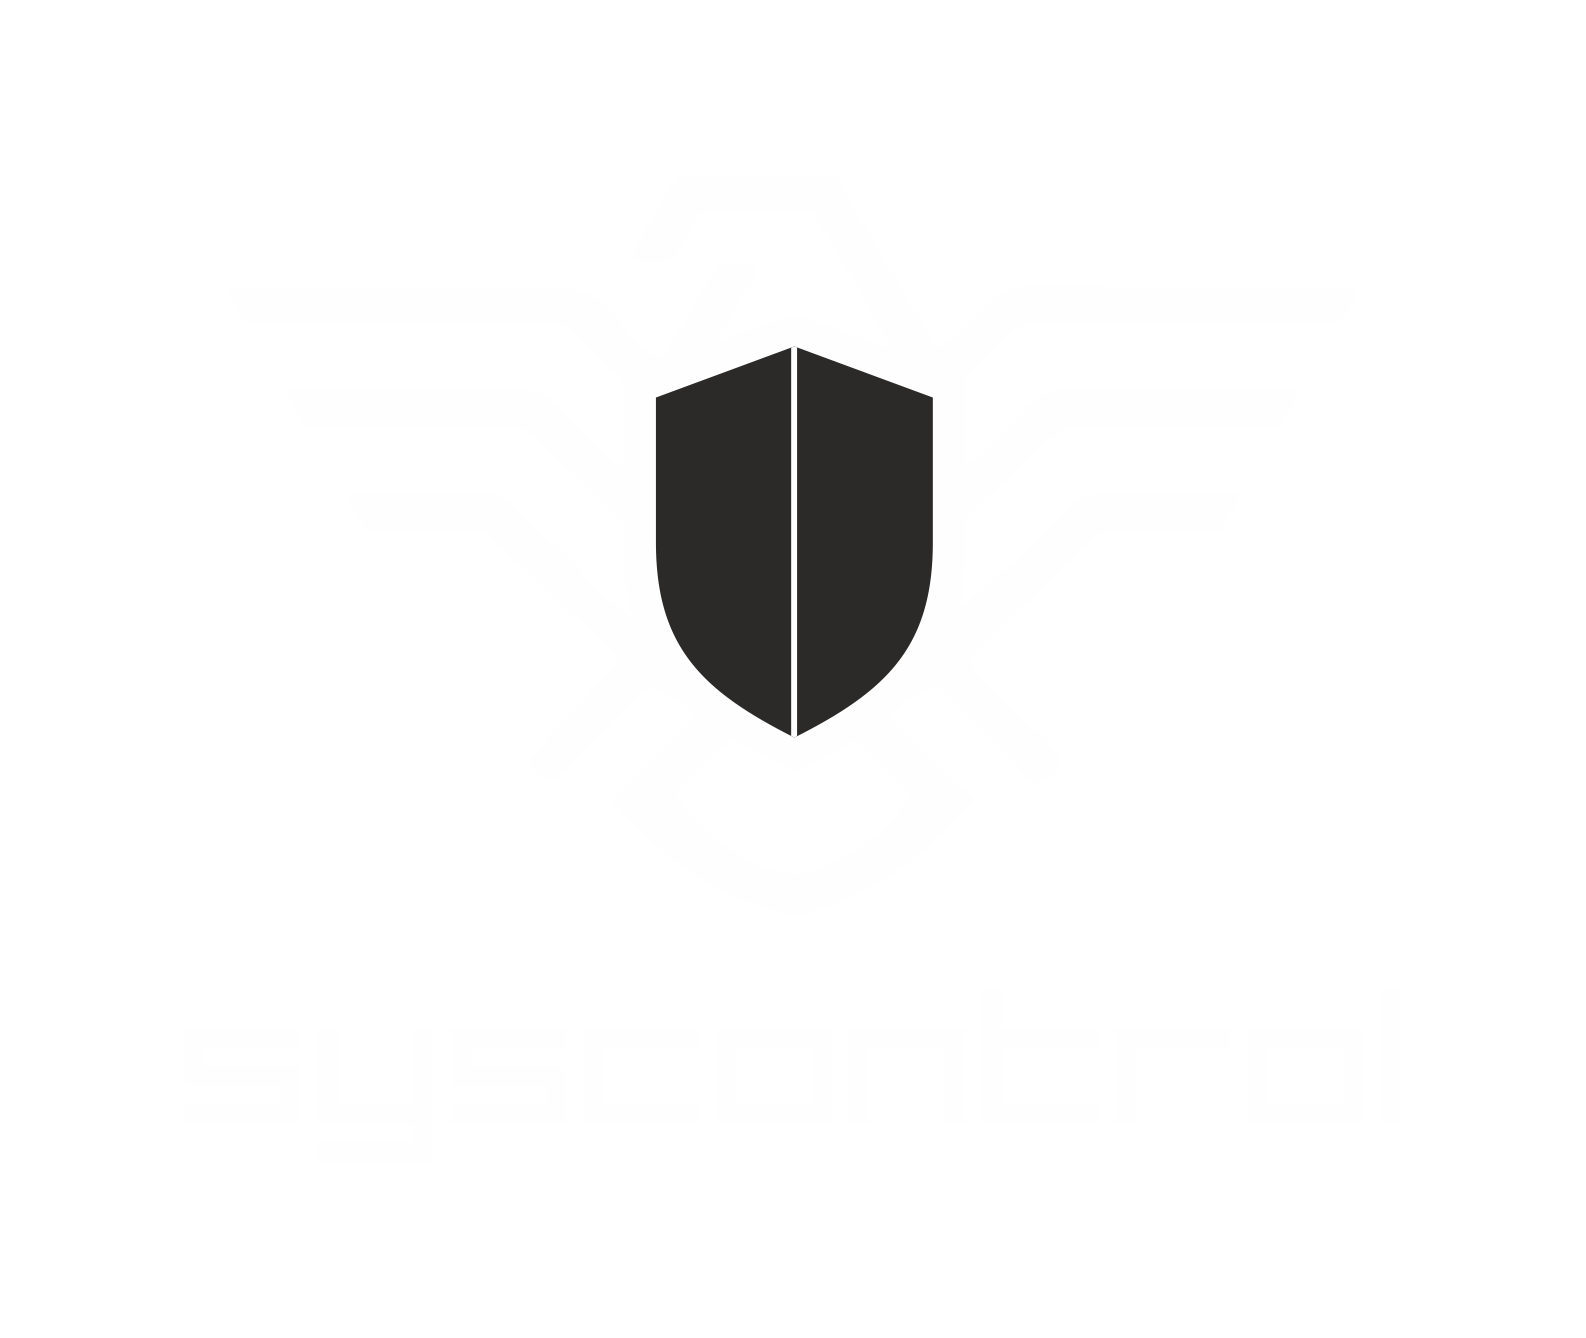
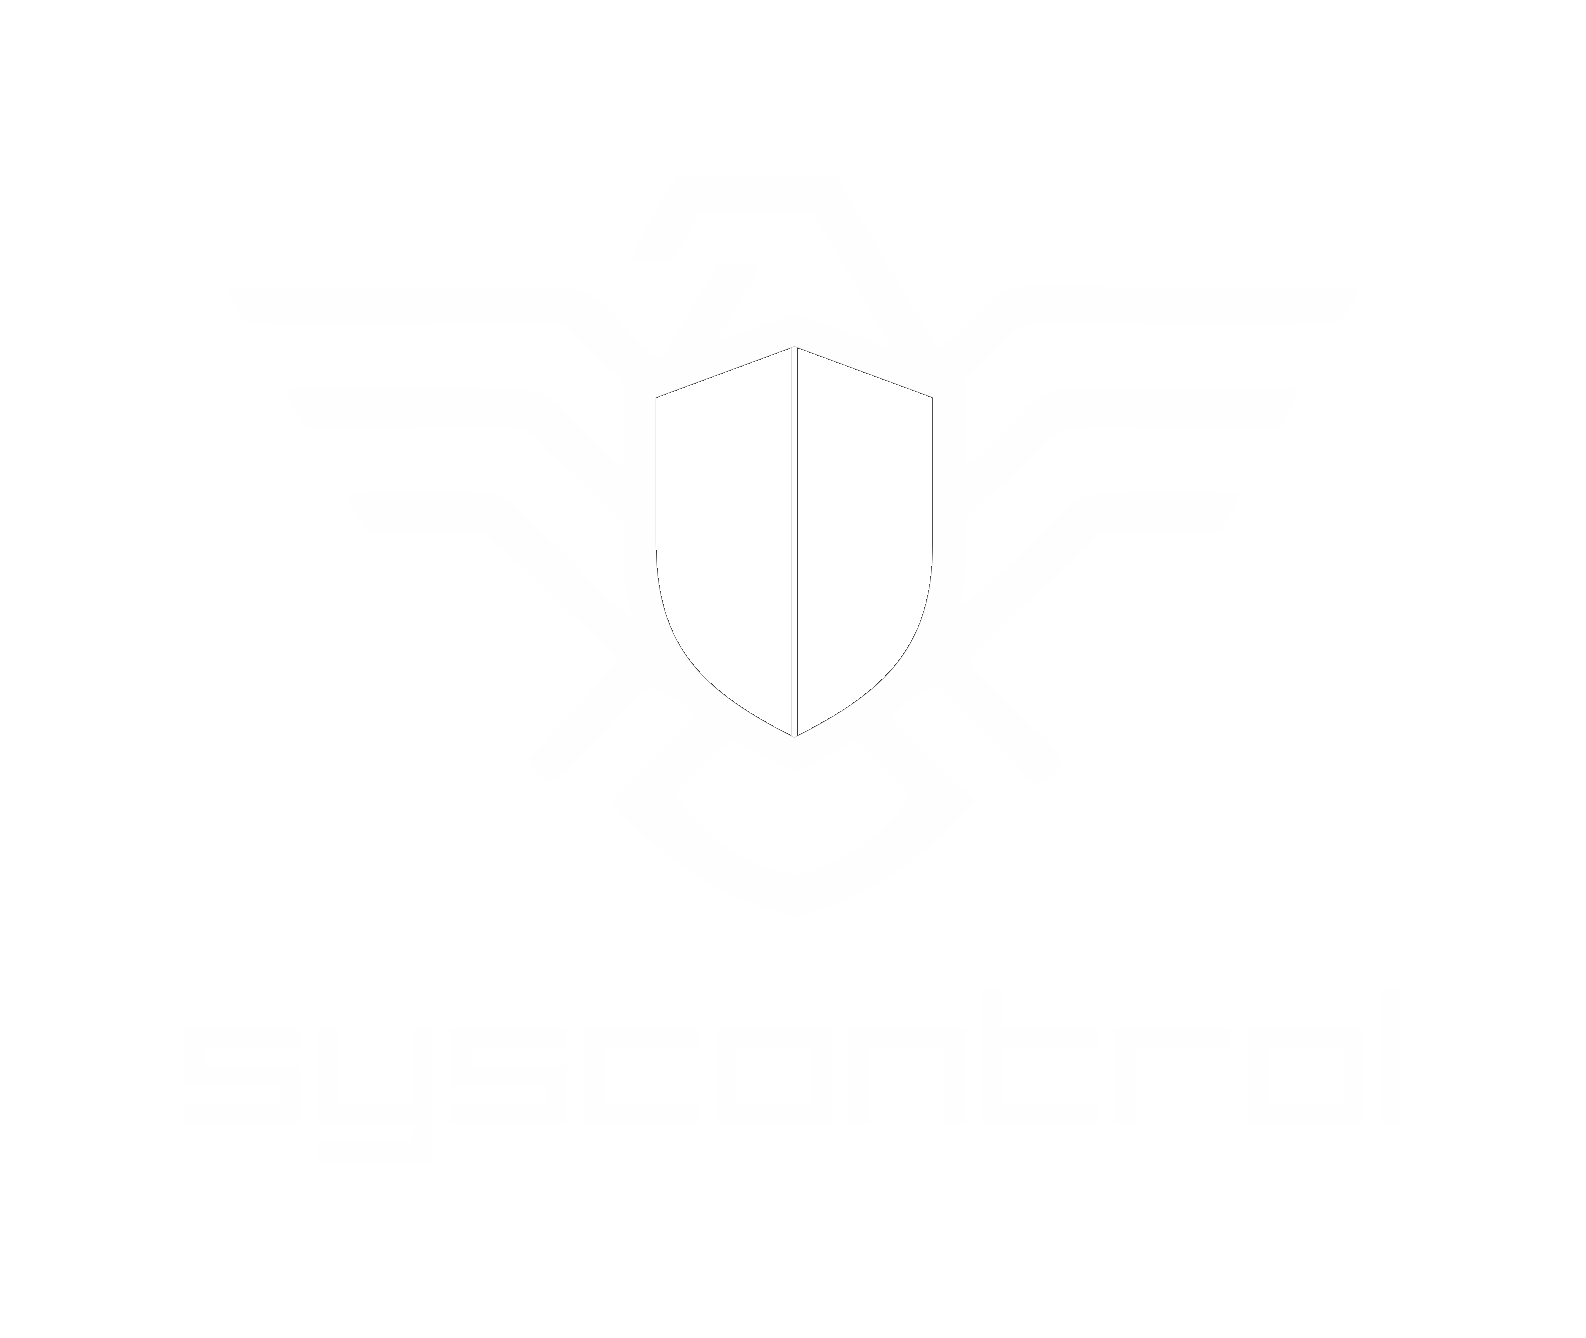
Add files via upload

Changed region(s): [[0.4016, 0.2451, 0.587, 0.5516]]

diff --git a/syscont/index.css b/syscont/index.css
@@ -220,6 +220,20 @@ background-color: rgba(0,70,150,0.6);
 
 }
 
+#logosh{
+
+display: none;
+
+position: absolute;
+
+height: 100px;
+width: auto;
+
+left: 160px;
+top: 80px;
+
+}
+
 #boton-ver{
 
 /* background-color: aliceblue; */
@@ -353,12 +367,14 @@ border: 1px solid rgb(202, 202, 202);
 border-radius: 10px;
 background-color: #000000;
 
+transition: all 0.5s ease-in;
+
 }
 
 .product-item:hover .product-text{
 
 cursor: pointer;
-background-color: #5c5c5c;
+background-color: var(--azulito);
 
 }
 
@@ -754,15 +770,36 @@ footer a:hover{
 
     }
 
+    .item{
+
+      display: flex;
+      justify-content: center;
+
+    }
+
     .product-text{
 
       /* background-color: #db2d16; */
-      
+      font-size: 0.8em;
+
+      }
+
+      .product-item{
+
+        height: 80%;
+        width: 80%;
+
       }
 
       #banner-img{
 
         background-size: 160%;
+      }
+
+      #logosh{
+
+        display: block;
+
       }
 
       .carousel{
@@ -773,7 +810,12 @@ footer a:hover{
 
       .boton-carrusel{
 
-        display: none;
+        display: flex;
+        bottom: 1px;
+        height: 100px;
+        width: 150px;
+        align-items: center;
+        justify-content: center;
 
       }
 

diff --git a/syscont/index.html b/syscont/index.html
@@ -44,6 +44,7 @@
                         de protección y de disminución de riesgos”</h2>
                 </div>
             </div>
+            <img src="images/Syscontrol Seguridad.png" alt="Syscont Camaras de Seguridad" id="logosh">
             <a href="#cont-productos" id="boton-ver">Ver Productos</a>
         </div>
 
